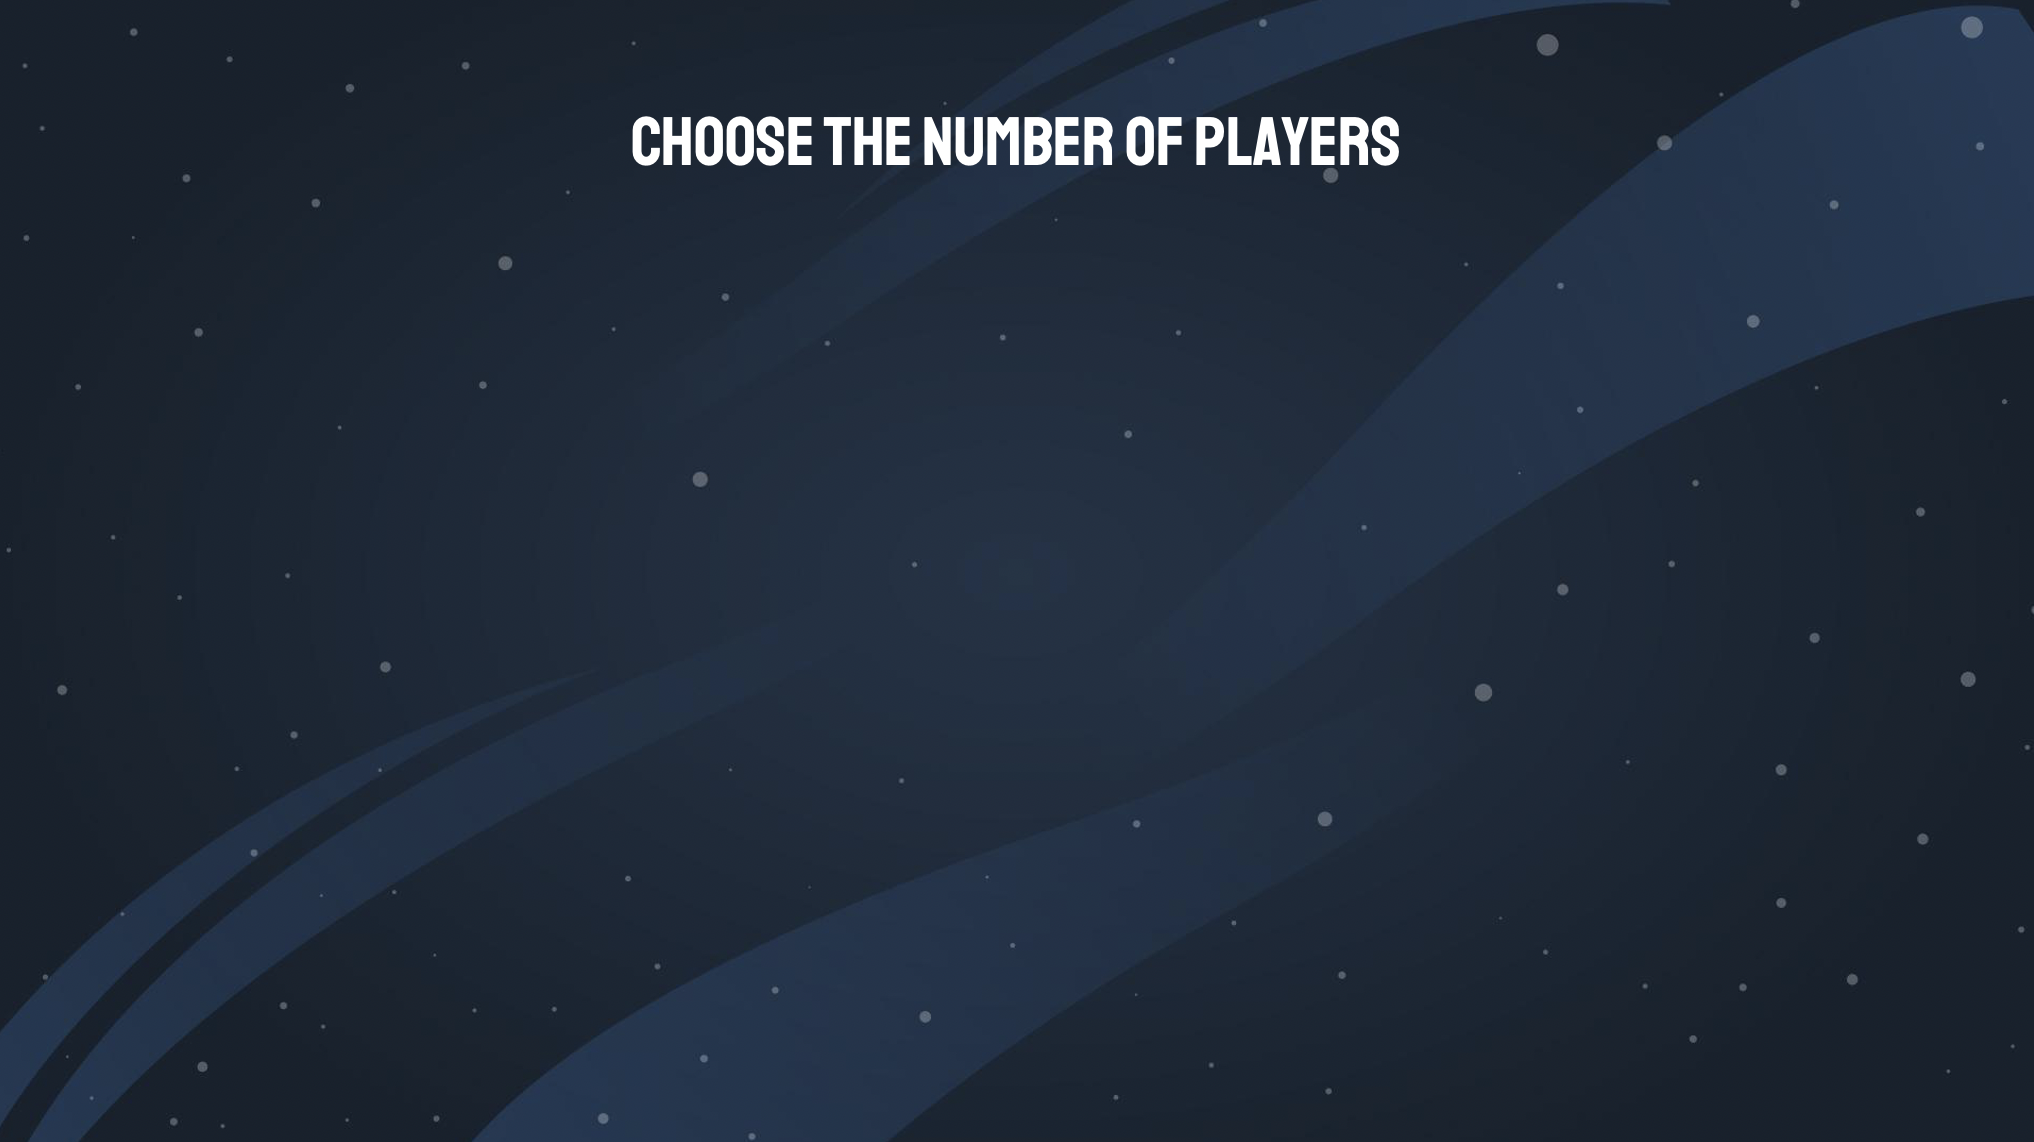
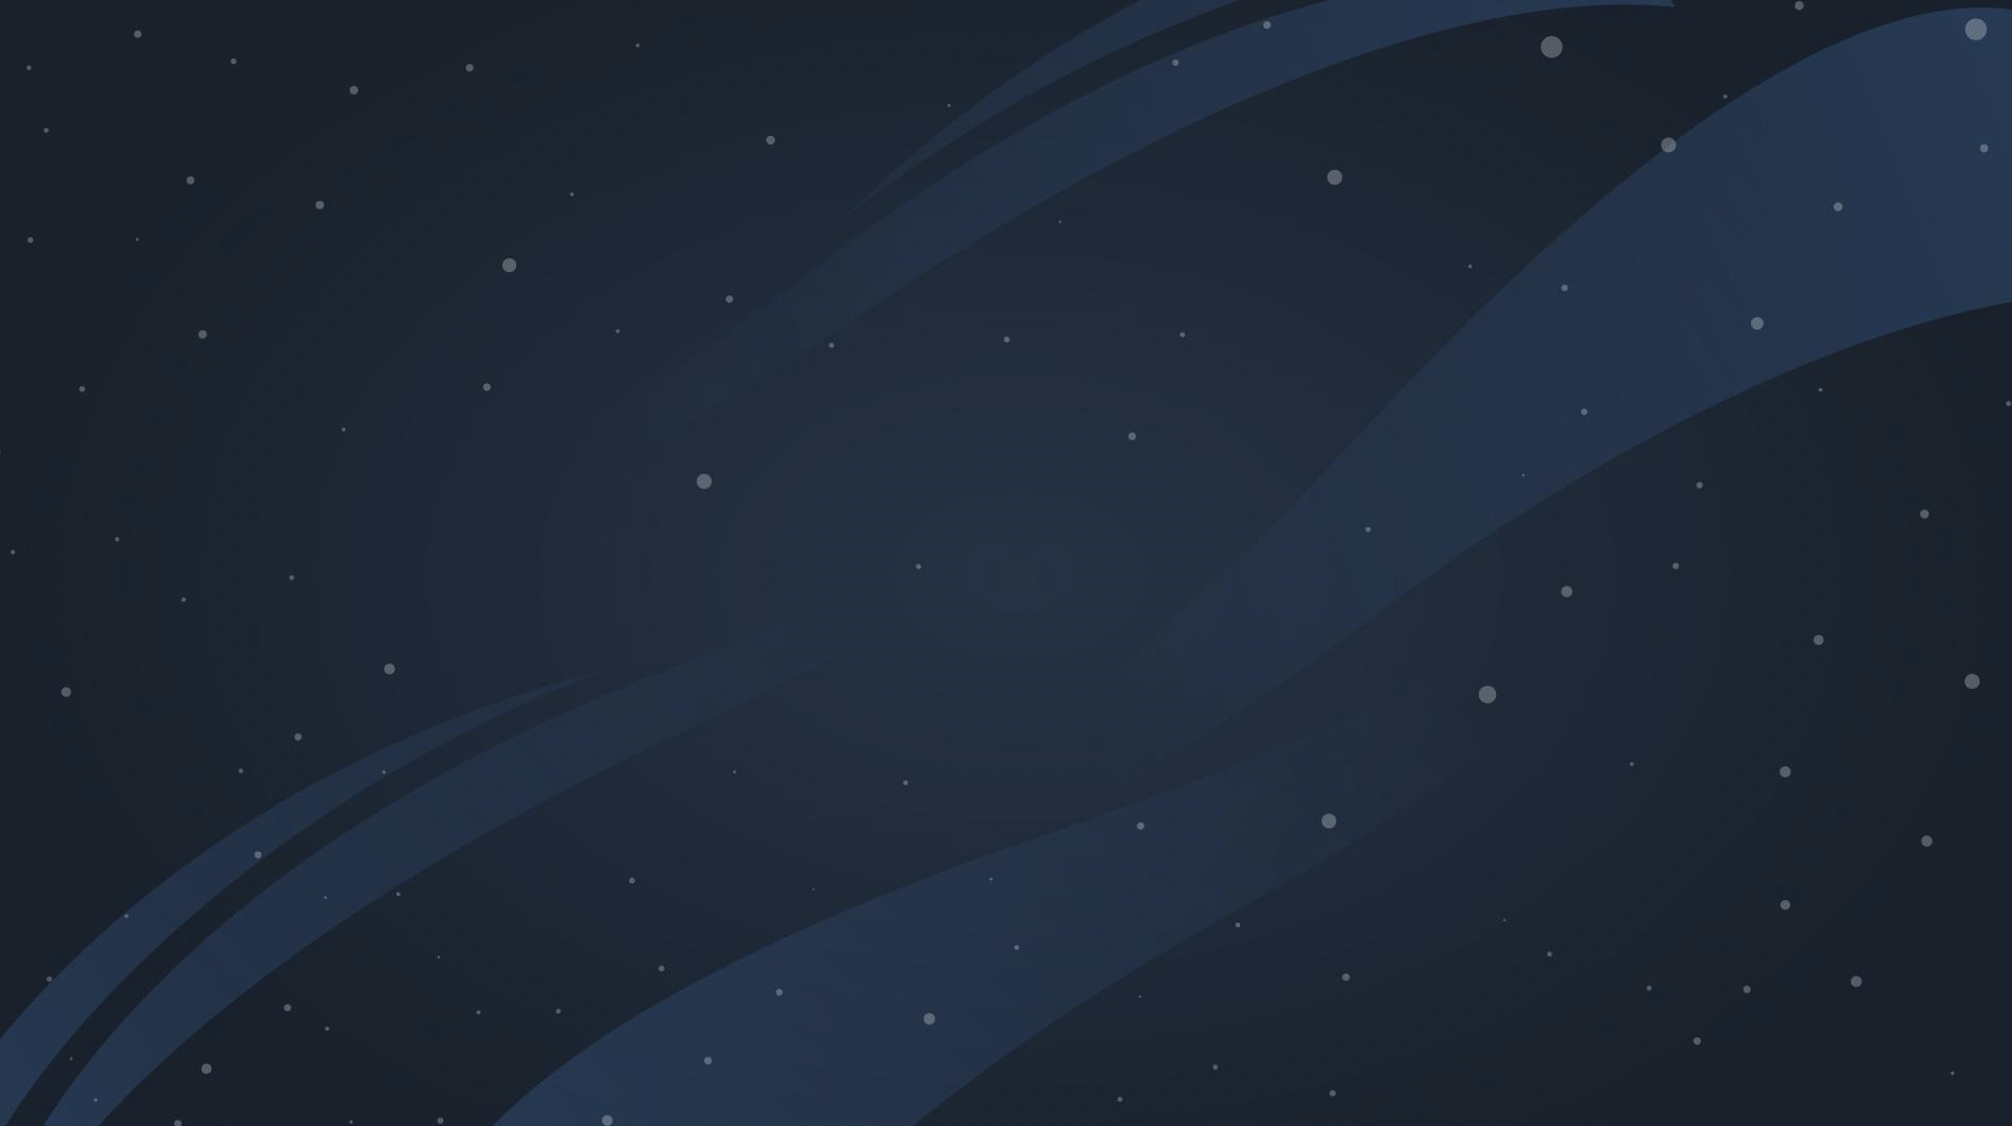
Submit players's names

diff --git a/Datos Party 1/src/com/Datos1/Proyecto1/Start/StartBoard.java b/Datos Party 1/src/com/Datos1/Proyecto1/Start/StartBoard.java
@@ -6,17 +6,25 @@ import com.Datos1.Proyecto1.simon.SimonWindow;
 import javax.imageio.ImageIO;
 import javax.swing.*;
 import java.awt.*;
+import java.awt.event.MouseEvent;
 import java.awt.image.BufferedImage;
 import java.io.File;
 import java.io.IOException;
 
 public class StartBoard extends JPanel {
 
-    private boolean instructions, mainWindow, setPlayers;
+    private boolean setPlayers;
+    public boolean endStartWindow;
     private int counter;
     private int nameWidth, nameHeight;
-    private BufferedImage coverBackground, gameName, playersWindow, player1, player2, player3, player4;
+    private BufferedImage coverBackground, gameName, playersWindow, player1, player2, player3, player4, imgChoosePlayer, imgPlayerNames;
     private PlayersEvent playersEvent = new PlayersEvent();
+    private String namePlayer1;
+    private String namePlayer2;
+    private String namePlayer3;
+    private String namePlayer4;
+    private int amountPlayers;
+
 
 
     public StartBoard() throws IOException {
@@ -28,6 +36,8 @@ public class StartBoard extends JPanel {
         player2 = ImageIO.read(new File("images/P2.png"));
         player3 = ImageIO.read(new File("images/P3.png"));
         player4 = ImageIO.read(new File("images/P4.png"));
+        imgChoosePlayer = ImageIO.read(new File("images/choosePlayer.png"));
+        imgPlayerNames = ImageIO.read(new File("images/playerNames.png"));
 
 
         counter = 0;
@@ -35,6 +45,7 @@ public class StartBoard extends JPanel {
         nameHeight = 0;
         setPlayers = false;
         addMouseListener(playersEvent);
+
 
     }
 
@@ -69,6 +80,7 @@ public class StartBoard extends JPanel {
             g2.drawImage(playersWindow,0,0,StartWindow.width, StartWindow.height,this);
 
             if(!playersEvent.twoFlash && !playersEvent.threeFlash && !playersEvent.fourFlash){
+                g2.drawImage(imgChoosePlayer,StartWindow.width/2-imgChoosePlayer.getWidth()/2,150,this);
                 g2.setColor(new Color(171, 225, 223));
                 g2.fillRoundRect(StartWindow.width/4 - 50, StartWindow.height/3,100,100,20,20);
                 g2.setColor(new Color(205, 220, 57));
@@ -84,33 +96,43 @@ public class StartBoard extends JPanel {
             }
 
             else{
+                g2.drawImage(imgPlayerNames,StartWindow.width/2-imgPlayerNames.getWidth()/2,150,this);
 
                 g2.drawImage(player1, StartWindow.width/3, StartWindow.height/3,50,50,this);
                 g2.drawImage(player2, StartWindow.width/3, StartWindow.height/3+100,50,50,this);
 
 
-                JTextField namePlayer1 = new JTextField();
-                namePlayer1.setBackground(new Color(84, 96, 129));
-                namePlayer1.setText("Enter the name of the player");
-                namePlayer1.setSize(400,50);
-                namePlayer1.setLocation(StartWindow.width/3+75, StartWindow.height/3);
-                add(namePlayer1);
-                JTextField namePlayer2 = new JTextField();
-                namePlayer2.setBackground(new Color(84, 96, 129));
-                namePlayer2.setText("Enter the name of the player");
-                namePlayer2.setSize(400,50);
-                namePlayer2.setLocation(StartWindow.width/3+75, StartWindow.height/3+100);
-                add(namePlayer2);
+                JTextField tfNamePlayer1 = new JTextField();
+                tfNamePlayer1.setBackground(new Color(168, 176, 197  ));
+                tfNamePlayer1.setForeground(Color.WHITE);
+                tfNamePlayer1.setText("Player 1");
+                tfNamePlayer1.setSize(400,50);
+                tfNamePlayer1.setLocation(StartWindow.width/3+75, StartWindow.height/3);
+                add(tfNamePlayer1);
+
+                JTextField tfNamePlayer2 = new JTextField();
+                tfNamePlayer2.setForeground(Color.WHITE);
+                tfNamePlayer2.setBackground(new Color(168, 176, 197  ));
+                tfNamePlayer2.setText("Player 2");
+                tfNamePlayer2.setSize(400,50);
+                tfNamePlayer2.setLocation(StartWindow.width/3+75, StartWindow.height/3+100);
+                add(tfNamePlayer2);
+
+                namePlayer1 = tfNamePlayer1.getText();
+                namePlayer2 = tfNamePlayer2.getText();
 
                 if(playersEvent.getNumberPlayers()==3){
                     g2.drawImage(player3, StartWindow.width/3, StartWindow.height/3+200,50,50,this);
 
-                    JTextField namePlayer3 = new JTextField();
-                    namePlayer3.setBackground(new Color(84, 96, 129));
-                    namePlayer3.setText("Enter the name of the player");
-                    namePlayer3.setSize(400,50);
-                    namePlayer3.setLocation(StartWindow.width/3+75, StartWindow.height/3+200);
-                    add(namePlayer3);
+                    JTextField tfNamePlayer3 = new JTextField();
+                    tfNamePlayer3.setBackground(new Color(168, 176, 197  ));
+                    tfNamePlayer3.setText("Player 3");
+                    tfNamePlayer3.setForeground(Color.WHITE);
+                    tfNamePlayer3.setSize(400,50);
+                    tfNamePlayer3.setLocation(StartWindow.width/3+75, StartWindow.height/3+200);
+                    add(tfNamePlayer3);
+
+                    namePlayer3 = tfNamePlayer3.getText();
 
                 }
 
@@ -118,36 +140,57 @@ public class StartBoard extends JPanel {
                     g2.drawImage(player3, StartWindow.width/3, StartWindow.height/3+200,50,50,this);
                     g2.drawImage(player4, StartWindow.width/3, StartWindow.height/3+300,50,50,this);
 
-                    JTextField namePlayer3 = new JTextField();
-                    namePlayer3.setBackground(new Color(84, 96, 129));
-                    namePlayer3.setText("Enter the name of the player");
-                    namePlayer3.setSize(400,50);
-                    namePlayer3.setLocation(StartWindow.width/3+75, StartWindow.height/3+200);
-                    add(namePlayer3);
+                    JTextField tfNamePlayer3 = new JTextField();
+                    tfNamePlayer3.setBackground(new Color(168, 176, 197  ));
+                    tfNamePlayer3.setForeground(Color.WHITE);
+                    tfNamePlayer3.setText("Player 3");
+                    tfNamePlayer3.setSize(400,50);
+                    tfNamePlayer3.setLocation(StartWindow.width/3+75, StartWindow.height/3+200);
+                    add(tfNamePlayer3);
+                    namePlayer3 = tfNamePlayer3.getText();
 
-                    JTextField namePlayer4 = new JTextField();
-                    namePlayer4.setBackground(new Color(84, 96, 129));
-                    namePlayer4.setText("Enter the name of the player");
-                    namePlayer4.setSize(400,50);
-                    namePlayer4.setLocation(StartWindow.width/3+75, StartWindow.height/3+300);
-                    add(namePlayer4);
+
+                    JTextField tfNamePlayer4 = new JTextField();
+                    tfNamePlayer4.setBackground(new Color(168, 176, 197  ));
+                    tfNamePlayer4.setForeground(Color.WHITE);
+                    tfNamePlayer4.setText("Player 4");
+                    tfNamePlayer4.setSize(400,50);
+                    tfNamePlayer4.setLocation(StartWindow.width/3+75, StartWindow.height/3+300);
+                    add(tfNamePlayer4);
+                    namePlayer4 = tfNamePlayer4.getText();
 
                 }
 
-                JButton btnSubmitNames = new JButton();
-                btnSubmitNames.setLocation(StartWindow.width/2 - 50, StartWindow.height-150);
-                btnSubmitNames.setSize(100,50);
-                btnSubmitNames.setText("Submit");
-                btnSubmitNames.setForeground(Color.WHITE);
-                btnSubmitNames.setBackground(new Color(205, 220, 57));
-                btnSubmitNames.setOpaque(true);
-                btnSubmitNames.setBorderPainted(false);
-                add(btnSubmitNames);
+                g2.setColor(new Color(205, 220, 57));
+                g2.fillRoundRect(StartWindow.width/2-50,StartWindow.height-150,100,50,20,20);
+                g2.setColor(Color.WHITE);
+                g2.setFont(new Font("Lao Sangam LM", Font.BOLD,20));
+                g2.drawString("Submit",StartWindow.width/2-35,StartWindow.height-120);
+
+                this.amountPlayers = playersEvent.getNumberPlayers();
+
+                if(playersEvent.submitPlayers){
+                    this.endStartWindow = true;
+                }
+
             }
-
-
         }
+    }
 
+    public String getNamePlayer1(){
+        return this.namePlayer1;
+    }
+    public String getNamePlayer2(){
+        return this.namePlayer2;
+    }
+    public String getNamePlayer3(){
+        return this.namePlayer3;
+    }
+    public String getNamePlayer4(){
+        return this.namePlayer4;
+    }
+    public int getNumberPlayers(){
+        return this.amountPlayers;
     }
 
 }

diff --git a/Datos Party 1/src/com/Datos1/Proyecto1/Start/PlayersEvent.java b/Datos Party 1/src/com/Datos1/Proyecto1/Start/PlayersEvent.java
@@ -5,11 +5,16 @@ import java.awt.event.MouseListener;
 
 public class PlayersEvent implements MouseListener {
 
-    public boolean twoFlash = false, threeFlash = false, fourFlash = false;
+    public boolean twoFlash = false, threeFlash = false, fourFlash = false,submitPlayers = false;
     protected int players;
 
     @Override
     public void mouseClicked(MouseEvent e) {
+
+    }
+
+    @Override
+    public void mousePressed(MouseEvent e) {
 
         int mouseX = e.getX(), mouseY = e.getY();
 
@@ -26,12 +31,11 @@ public class PlayersEvent implements MouseListener {
             this.players = 4;
         }
 
-    }
-
-    @Override
-    public void mousePressed(MouseEvent e) {
-
-
+        if(twoFlash||threeFlash||fourFlash){
+            if(mouseX>StartWindow.width/2-50 && mouseX<StartWindow.width+50 && mouseY>StartWindow.height-150 && mouseY<StartWindow.height-100){
+                this.submitPlayers=true;
+            }
+        }
 
     }
 

diff --git a/Datos Party 1/src/com/Datos1/Proyecto1/Start/Main.java b/Datos Party 1/src/com/Datos1/Proyecto1/Start/Main.java
@@ -8,5 +8,18 @@ public class Main {
 
         StartWindow startWindow = new StartWindow();
         startWindow.createWindow();
+
+        boolean startGame = false;
+
+        while(!startGame){
+            System.out.println("Main");
+            if(startWindow.startBoard.endStartWindow){
+                startGame = true;
+            }
+        }
+
+        if(startGame){
+            startWindow.dispose();
+        }
     }
 }

diff --git a/Datos Party 1/src/com/Datos1/Proyecto1/Start/StartWindow.java b/Datos Party 1/src/com/Datos1/Proyecto1/Start/StartWindow.java
@@ -8,7 +8,7 @@ public class StartWindow extends JFrame {
     protected static final int width = 1400, height = 800;
 
     private StartThread startThread;
-    private StartBoard startBoard;
+    public StartBoard startBoard;
 
     public StartWindow() throws IOException {
 
